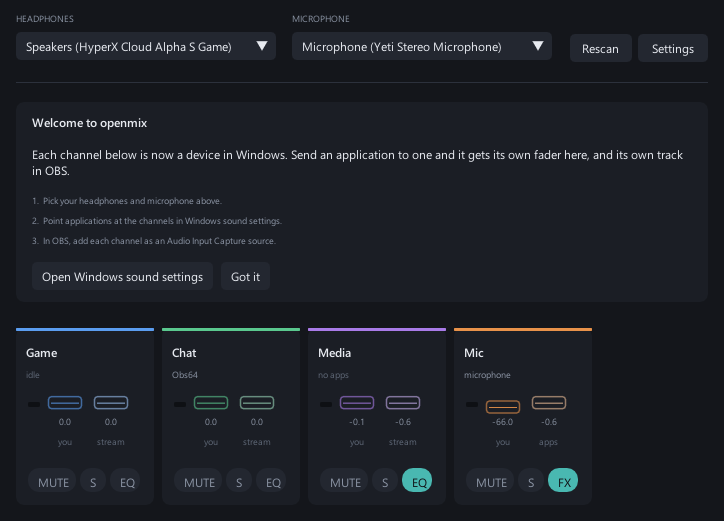
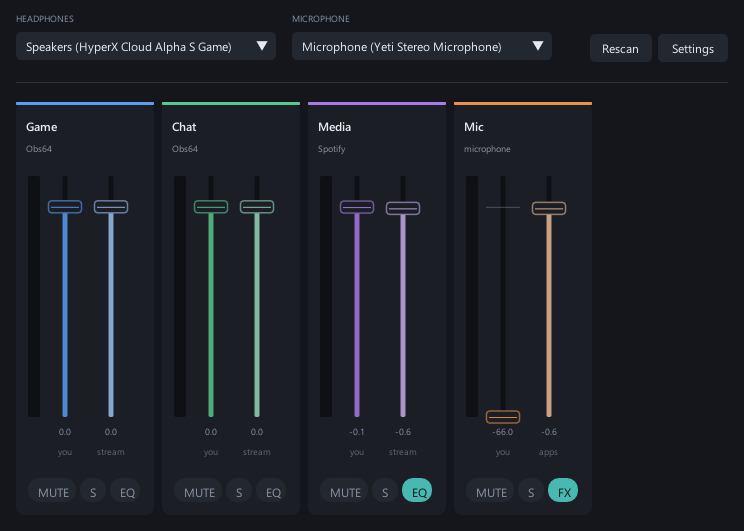
Make the minimum window fit the default channels
At its smallest the window cut off the fourth strip and left you scrolling
sideways to reach the microphone, which is the channel most likely to be
wanted in a hurry. The floor is now wide enough for four strips, their gaps
and the padding.

Also refreshes the README screenshot, which predated solo and the response
curve.

diff --git a/src/gui.cpp b/src/gui.cpp
@@ -184,8 +184,10 @@ LRESULT WINAPI wndProc(HWND hwnd, UINT msg, WPARAM wp, LPARAM lp) {
 
         case WM_GETMINMAXINFO: {
             // Below this the strips overlap and the window stops being useful.
+            // Wide enough for the four default channels without scrolling:
+            // four 138 px strips, their gaps, and the window padding.
             auto* mmi = reinterpret_cast<MINMAXINFO*>(lp);
-            mmi->ptMinTrackSize.x = static_cast<LONG>(560 * g_scale);
+            mmi->ptMinTrackSize.x = static_cast<LONG>(624 * g_scale);
             mmi->ptMinTrackSize.y = static_cast<LONG>(470 * g_scale);
             return 0;
         }
